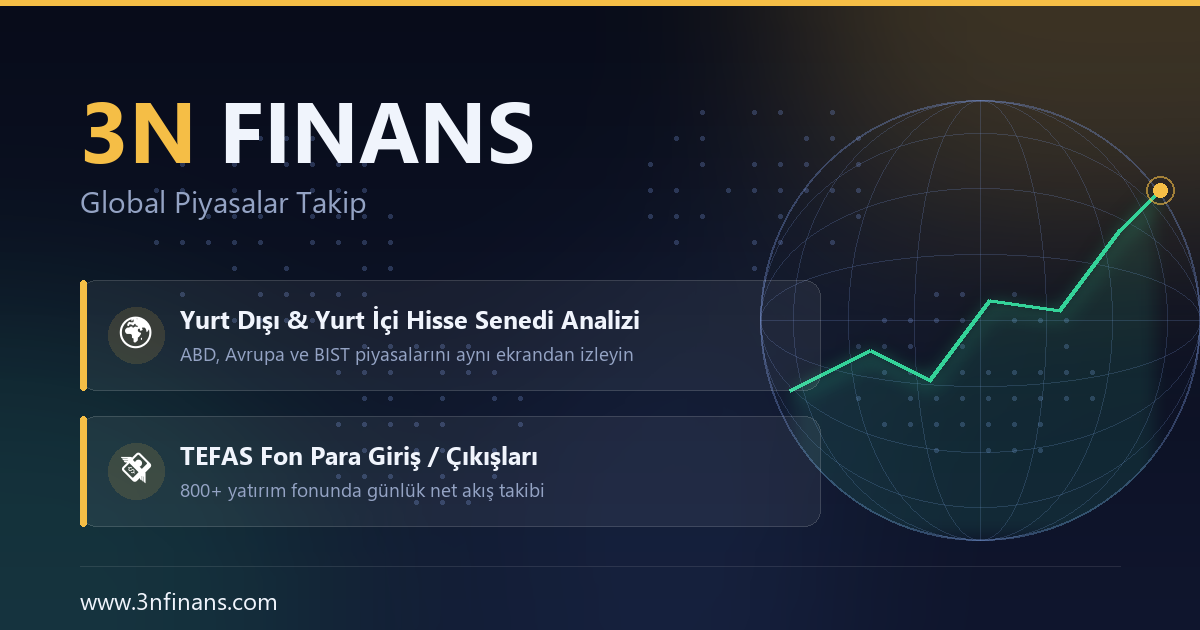
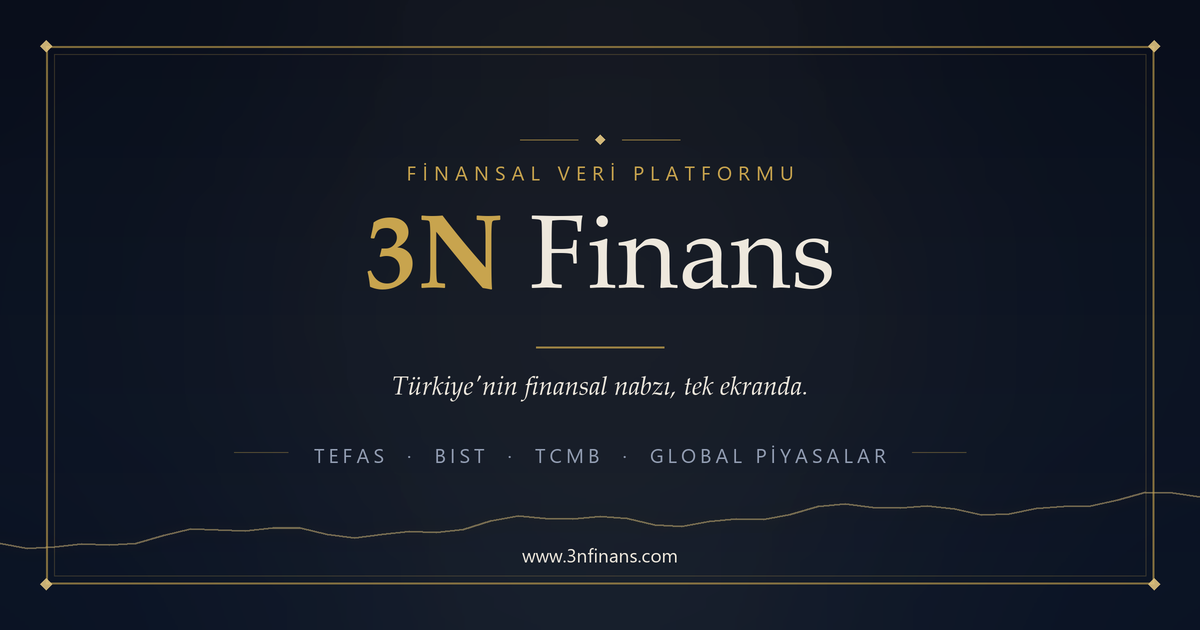
Sosyal medya kartı (OG) yeniden tasarlandı: klasik & zarif
- Derin lacivert zemin, antik altın çift çerçeve + köşe elmasları
- Zarif serif marka '3N Finans', bol negatif alan, ölçülü altın trend çizgisi
- og-image-v3.png olarak yayınlandı (platform önbelleğini atlatmak için yeni ad)
- index/landing/login'deki 8 og:image + twitter:image referansı güncellendi
- Üretici script: scripts/gen_og_elegant.py (2x supersampling + LANCZOS)

diff --git a/templates/landing.html b/templates/landing.html
@@ -17,13 +17,13 @@
   <meta property="og:url"         content="https://www.3nfinans.com/">
   <meta property="og:title"       content="3N Finans — Türkiye'nin Finansal Veri Platformu">
   <meta property="og:description" content="TEFAS fon akışlarından TCMB rezervlerine, global faizlerden BIST endekslerine kadar Türkiye'nin finansal nabzını takip edin. Ücretsiz üye ol.">
-  <meta property="og:image"       content="https://www.3nfinans.com/static/og-image.png">
+  <meta property="og:image"       content="https://www.3nfinans.com/static/og-image-v3.png">
   <meta property="og:image:width" content="1200">
   <meta property="og:image:height" content="630">
   <meta name="twitter:card"       content="summary_large_image">
   <meta name="twitter:title"      content="3N Finans — Türkiye'nin Finansal Veri Platformu">
   <meta name="twitter:description" content="TEFAS, BIST, Global Piyasa ve Makro Ekonomi verilerini tek ekranda görün.">
-  <meta name="twitter:image"      content="https://www.3nfinans.com/static/og-image.png">
+  <meta name="twitter:image"      content="https://www.3nfinans.com/static/og-image-v3.png">
   <meta name="description" content="TEFAS fon akışları, BIST endeksleri, global piyasalar ve TCMB verileri — hepsi tek platformda. Türkiye'nin finansal nabzını gerçek zamanlı takip et. Ücretsiz üye ol.">
   <meta name="keywords" content="TEFAS fon akışları, TEFAS fon para girişi, yatırım fonu net akış, BIST endeks getirileri, TCMB makro veriler, kripto ETF akışları, Türkiye finansal veri platformu, hangi fona para girdi">
   <meta name="robots" content="index, follow, max-image-preview:large">
@@ -368,7 +368,7 @@ footer a:hover{color:#999}
   "@type": "Organization",
   "name": "3N Finans",
   "url": "https://www.3nfinans.com",
-  "logo": "https://www.3nfinans.com/static/og-image.png",
+  "logo": "https://www.3nfinans.com/static/og-image-v3.png",
   "description": "TEFAS fon akışları, BIST endeksleri, global piyasalar ve TCMB verileri — Türkiye'nin finansal veri platformu.",
   "sameAs": [
     "https://www.youtube.com/@3nfinans",

diff --git a/templates/index.html b/templates/index.html
@@ -26,13 +26,13 @@
   <meta property="og:url"         content="https://www.3nfinans.com/">
   <meta property="og:title"       content="3N Finans — Türkiye'nin Finansal Veri Platformu">
   <meta property="og:description" content="TEFAS fon akışlarından TCMB rezervlerine, global faizlerden BIST endekslerine kadar Türkiye'nin finansal nabzını takip edin. Ücretsiz üye ol.">
-  <meta property="og:image"       content="https://www.3nfinans.com/static/og-image.png">
+  <meta property="og:image"       content="https://www.3nfinans.com/static/og-image-v3.png">
   <meta property="og:image:width" content="1200">
   <meta property="og:image:height" content="630">
   <meta name="twitter:card"       content="summary_large_image">
   <meta name="twitter:title"      content="3N Finans — Türkiye'nin Finansal Veri Platformu">
   <meta name="twitter:description" content="TEFAS, BIST, Global Piyasa ve Makro Ekonomi verilerini tek ekranda görün.">
-  <meta name="twitter:image"      content="https://www.3nfinans.com/static/og-image.png">
+  <meta name="twitter:image"      content="https://www.3nfinans.com/static/og-image-v3.png">
   <meta name="description" content="3N Finans Dashboard — TEFAS fon akışları, BIST portföy takibi, global piyasa analizi ve Türkiye makro verileri. Profesyonel yatırımcılar için tek ekran.">
   <meta name="viewport" content="width=device-width, initial-scale=1.0" />
   <title>TR Veri Panosu</title>
@@ -45,7 +45,7 @@
   "@type": "Organization",
   "name": "3N Finans",
   "url": "https://www.3nfinans.com",
-  "logo": "https://www.3nfinans.com/static/og-image.png",
+  "logo": "https://www.3nfinans.com/static/og-image-v3.png",
   "description": "TEFAS fon akışları, BIST endeksleri, global piyasalar ve TCMB verileri — Türkiye'nin finansal veri platformu.",
   "sameAs": [
     "https://www.youtube.com/@3nfinans",

diff --git a/templates/login.html b/templates/login.html
@@ -7,13 +7,13 @@
   <meta property="og:url"         content="https://www.3nfinans.com/">
   <meta property="og:title"       content="3N Finans — Türkiye'nin Finansal Veri Platformu">
   <meta property="og:description" content="TEFAS fon akışlarından TCMB rezervlerine, global faizlerden BIST endekslerine kadar Türkiye'nin finansal nabzını takip edin. Ücretsiz üye ol.">
-  <meta property="og:image"       content="https://www.3nfinans.com/static/og-image.png">
+  <meta property="og:image"       content="https://www.3nfinans.com/static/og-image-v3.png">
   <meta property="og:image:width" content="1200">
   <meta property="og:image:height" content="630">
   <meta name="twitter:card"       content="summary_large_image">
   <meta name="twitter:title"      content="3N Finans — Türkiye'nin Finansal Veri Platformu">
   <meta name="twitter:description" content="TEFAS, BIST, Global Piyasa ve Makro Ekonomi verilerini tek ekranda görün.">
-  <meta name="twitter:image"      content="https://www.3nfinans.com/static/og-image.png">
+  <meta name="twitter:image"      content="https://www.3nfinans.com/static/og-image-v3.png">
   <meta name="description" content="3N Finans'a giriş yap. TEFAS fon akışları, BIST endeksleri ve global piyasa verilerine erişin.">
   <meta name="viewport" content="width=device-width, initial-scale=1.0">
   <title>3N Finans</title>

diff --git a/scripts/gen_og_elegant.py b/scripts/gen_og_elegant.py
@@ -1,0 +1,156 @@
+# -*- coding: utf-8 -*-
+"""3N Finans — klasik & zarif Open Graph / sosyal medya kartı (1200x630).
+
+Tasarım dili: derin lacivert zemin, antik altın ince çift çerçeve, zarif serif
+marka, bol negatif alan, ölçülü finans dokunuşu (ince altın trend çizgisi).
+Kalite için 2x supersampling → LANCZOS küçültme.
+"""
+import math
+from PIL import Image, ImageDraw, ImageFont, ImageFilter
+
+S = 2                      # supersampling
+W, H = 1200 * S, 630 * S
+
+# ── Palet (antik altın + fildişi + derin lacivert) ──
+BG_TOP  = (10, 16, 30)
+BG_BOT  = (14, 24, 43)
+GOLD    = (200, 164, 78)
+GOLD_HI = (226, 197, 128)
+IVORY   = (238, 232, 221)
+MUTED   = (146, 157, 178)
+
+FONT_DIR = "C:/Windows/Fonts"
+def font(names, size):
+    """İlk bulunan fontu yükle (zarif serif tercihi)."""
+    for n in names:
+        try:
+            return ImageFont.truetype(f"{FONT_DIR}/{n}", int(size * S))
+        except OSError:
+            continue
+    return ImageFont.load_default()
+
+SERIF   = ["pala.ttf", "georgia.ttf", "times.ttf"]        # gövde serif
+SERIF_B = ["palab.ttf", "georgiab.ttf", "timesbd.ttf"]    # kalın serif
+SERIF_I = ["palai.ttf", "georgiai.ttf", "timesi.ttf"]     # italik serif
+SANS    = ["segoeui.ttf", "arial.ttf"]
+
+f_brand  = font(SERIF_B, 104)
+f_brand2 = font(SERIF,   104)
+f_tag    = font(SANS,    20)
+f_sub    = font(SERIF_I, 26)
+f_url    = font(SANS,    19)
+
+# ── Zemin: dikey degrade + hafif merkez ışıması ──
+img = Image.new("RGB", (W, H), BG_TOP)
+d = ImageDraw.Draw(img)
+for y in range(H):
+    t = y / H
+    d.line([(0, y), (W, y)], fill=tuple(int(BG_TOP[i] + (BG_BOT[i]-BG_TOP[i])*t) for i in range(3)))
+img = img.convert("RGBA")
+
+glow = Image.new("RGBA", (W, H), (0, 0, 0, 0))
+gd = ImageDraw.Draw(glow)
+gd.ellipse([W*0.5-500*S, H*0.5-340*S, W*0.5+500*S, H*0.5+340*S], fill=(*GOLD, 18))
+glow = glow.filter(ImageFilter.GaussianBlur(170*S))
+img = Image.alpha_composite(img, glow)
+
+# ── Yumuşak vinyet (elips maske, geniş blur → köşelerde sertlik yok) ──
+mask = Image.new("L", (W, H), 0)
+md = ImageDraw.Draw(mask)
+md.ellipse([-W*0.06, -H*0.10, W*1.06, H*1.10], fill=255)
+mask = mask.filter(ImageFilter.GaussianBlur(180*S))
+dark = Image.new("RGBA", (W, H), (5, 9, 18, 255))
+dark.putalpha(Image.eval(mask, lambda p: int((255 - p) * 0.55)))
+img = Image.alpha_composite(img, dark)
+img = img.convert("RGB")
+
+CX = W // 2
+
+# ── Ölçülü finans dokunuşu: alt bölgede ince altın trend çizgisi ──
+pts = []
+n = 44
+for i in range(n + 1):
+    x = i * (W / n)
+    y = H*0.862 - (H*0.070)*(i/n) + math.sin(i*0.55)*6.5*S + math.sin(i*1.6)*3*S
+    pts.append((x, y))
+
+# 1) çizginin altına çok hafif altın ışıma (dolgu yok — "duman" etkisi olmasın)
+tglow = Image.new("RGBA", (W, H), (0, 0, 0, 0))
+ImageDraw.Draw(tglow).line(pts, fill=(*GOLD, 70), width=max(1, 5*S), joint="curve")
+tglow = tglow.filter(ImageFilter.GaussianBlur(7*S))
+img = Image.alpha_composite(img.convert("RGBA"), tglow)
+
+# 2) net, ince altın çizgi
+tsharp = Image.new("RGBA", (W, H), (0, 0, 0, 0))
+ImageDraw.Draw(tsharp).line(pts, fill=(*GOLD_HI, 120), width=max(1, 2*S), joint="curve")
+img = Image.alpha_composite(img, tsharp).convert("RGB")
+draw = ImageDraw.Draw(img, "RGBA")
+
+# ── Zarif çift çerçeve + köşe elmasları ──
+m = 46 * S
+draw.rectangle([m, m, W-m, H-m], outline=(*GOLD, 155), width=max(1, 2*S))
+m2 = 54 * S
+draw.rectangle([m2, m2, W-m2, H-m2], outline=(*GOLD, 58), width=max(1, 1*S))
+for cx, cy in [(m, m), (W-m, m), (m, H-m), (W-m, H-m)]:
+    r = 6*S
+    draw.polygon([(cx, cy-r), (cx+r, cy), (cx, cy+r), (cx-r, cy)], fill=(*GOLD_HI, 225))
+
+def tracked(y, text, fnt, fill, tracking, cx=None):
+    """Harf aralıklı, yatay ortalı metin. Döner: (sol_x, toplam_genişlik)."""
+    cx = CX if cx is None else cx
+    tr = tracking * S
+    widths = [draw.textlength(ch, font=fnt) for ch in text]
+    total = sum(widths) + tr*(len(text)-1)
+    x = cx - total/2
+    for ch, w in zip(text, widths):
+        draw.text((x, y), ch, font=fnt, fill=fill)
+        x += w + tr
+    return cx - total/2, total
+
+# ═══ Dikey kompozisyon (optik merkez: hafif yukarı) ═══
+oy = int(H*0.222)                      # üst süs
+# kısa çizgi — elmas — kısa çizgi
+seg = 58*S; gap = 17*S; dsz = 5*S
+draw.line([(CX-seg-gap-dsz, oy), (CX-gap-dsz, oy)], fill=(*GOLD, 165), width=max(1,1*S))
+draw.line([(CX+gap+dsz, oy), (CX+seg+gap+dsz, oy)], fill=(*GOLD, 165), width=max(1,1*S))
+draw.polygon([(CX, oy-dsz), (CX+dsz, oy), (CX, oy+dsz), (CX-dsz, oy)], fill=(*GOLD_HI, 235))
+
+# üst etiket
+tracked(int(H*0.252), "FİNANSAL VERİ PLATFORMU", f_tag, (*GOLD, 205), 6)
+
+# ── Marka: "3N Finans" ──
+by = int(H*0.335)
+part1, part2 = "3N ", "Finans"
+w1 = draw.textlength(part1, font=f_brand)
+w2 = draw.textlength(part2, font=f_brand2)
+start = CX - (w1 + w2)/2
+draw.text((start, by), part1, font=f_brand, fill=GOLD)
+draw.text((start + w1, by), part2, font=f_brand2, fill=IVORY)
+
+# ── Marka altı ince çizgi ──
+uy = by + int(136*S)
+draw.line([(CX-64*S, uy), (CX+64*S, uy)], fill=(*GOLD, 190), width=max(1,2*S))
+
+# ── Slogan (italik serif) ──
+subtxt = "Türkiye'nin finansal nabzı, tek ekranda."
+sw = draw.textlength(subtxt, font=f_sub)
+sy = uy + 28*S
+draw.text((CX - sw/2, sy), subtxt, font=f_sub, fill=(*IVORY, 215))
+
+# ── Kategori satırı + iki yanında ince ayırıcı çizgi ──
+cy = sy + 66*S
+cat_left, cat_w = tracked(cy, "TEFAS  ·  BIST  ·  TCMB  ·  GLOBAL PİYASALAR", f_tag, (*MUTED, 225), 4)
+ly = cy + 11*S
+rule = 54*S; pad = 26*S
+draw.line([(cat_left - pad - rule, ly), (cat_left - pad, ly)], fill=(*GOLD, 90), width=max(1,1*S))
+draw.line([(cat_left + cat_w + pad, ly), (cat_left + cat_w + pad + rule, ly)], fill=(*GOLD, 90), width=max(1,1*S))
+
+# ── Alt: URL ──
+uurl = "www.3nfinans.com"
+uw = draw.textlength(uurl, font=f_url)
+draw.text((CX - uw/2, H - 88*S), uurl, font=f_url, fill=(*IVORY, 195))
+
+# ── Küçült & kaydet ──
+out = img.resize((1200, 630), Image.LANCZOS)
+out.save("static/og-elegant-preview.png", "PNG")
+print("ok -> static/og-elegant-preview.png")
